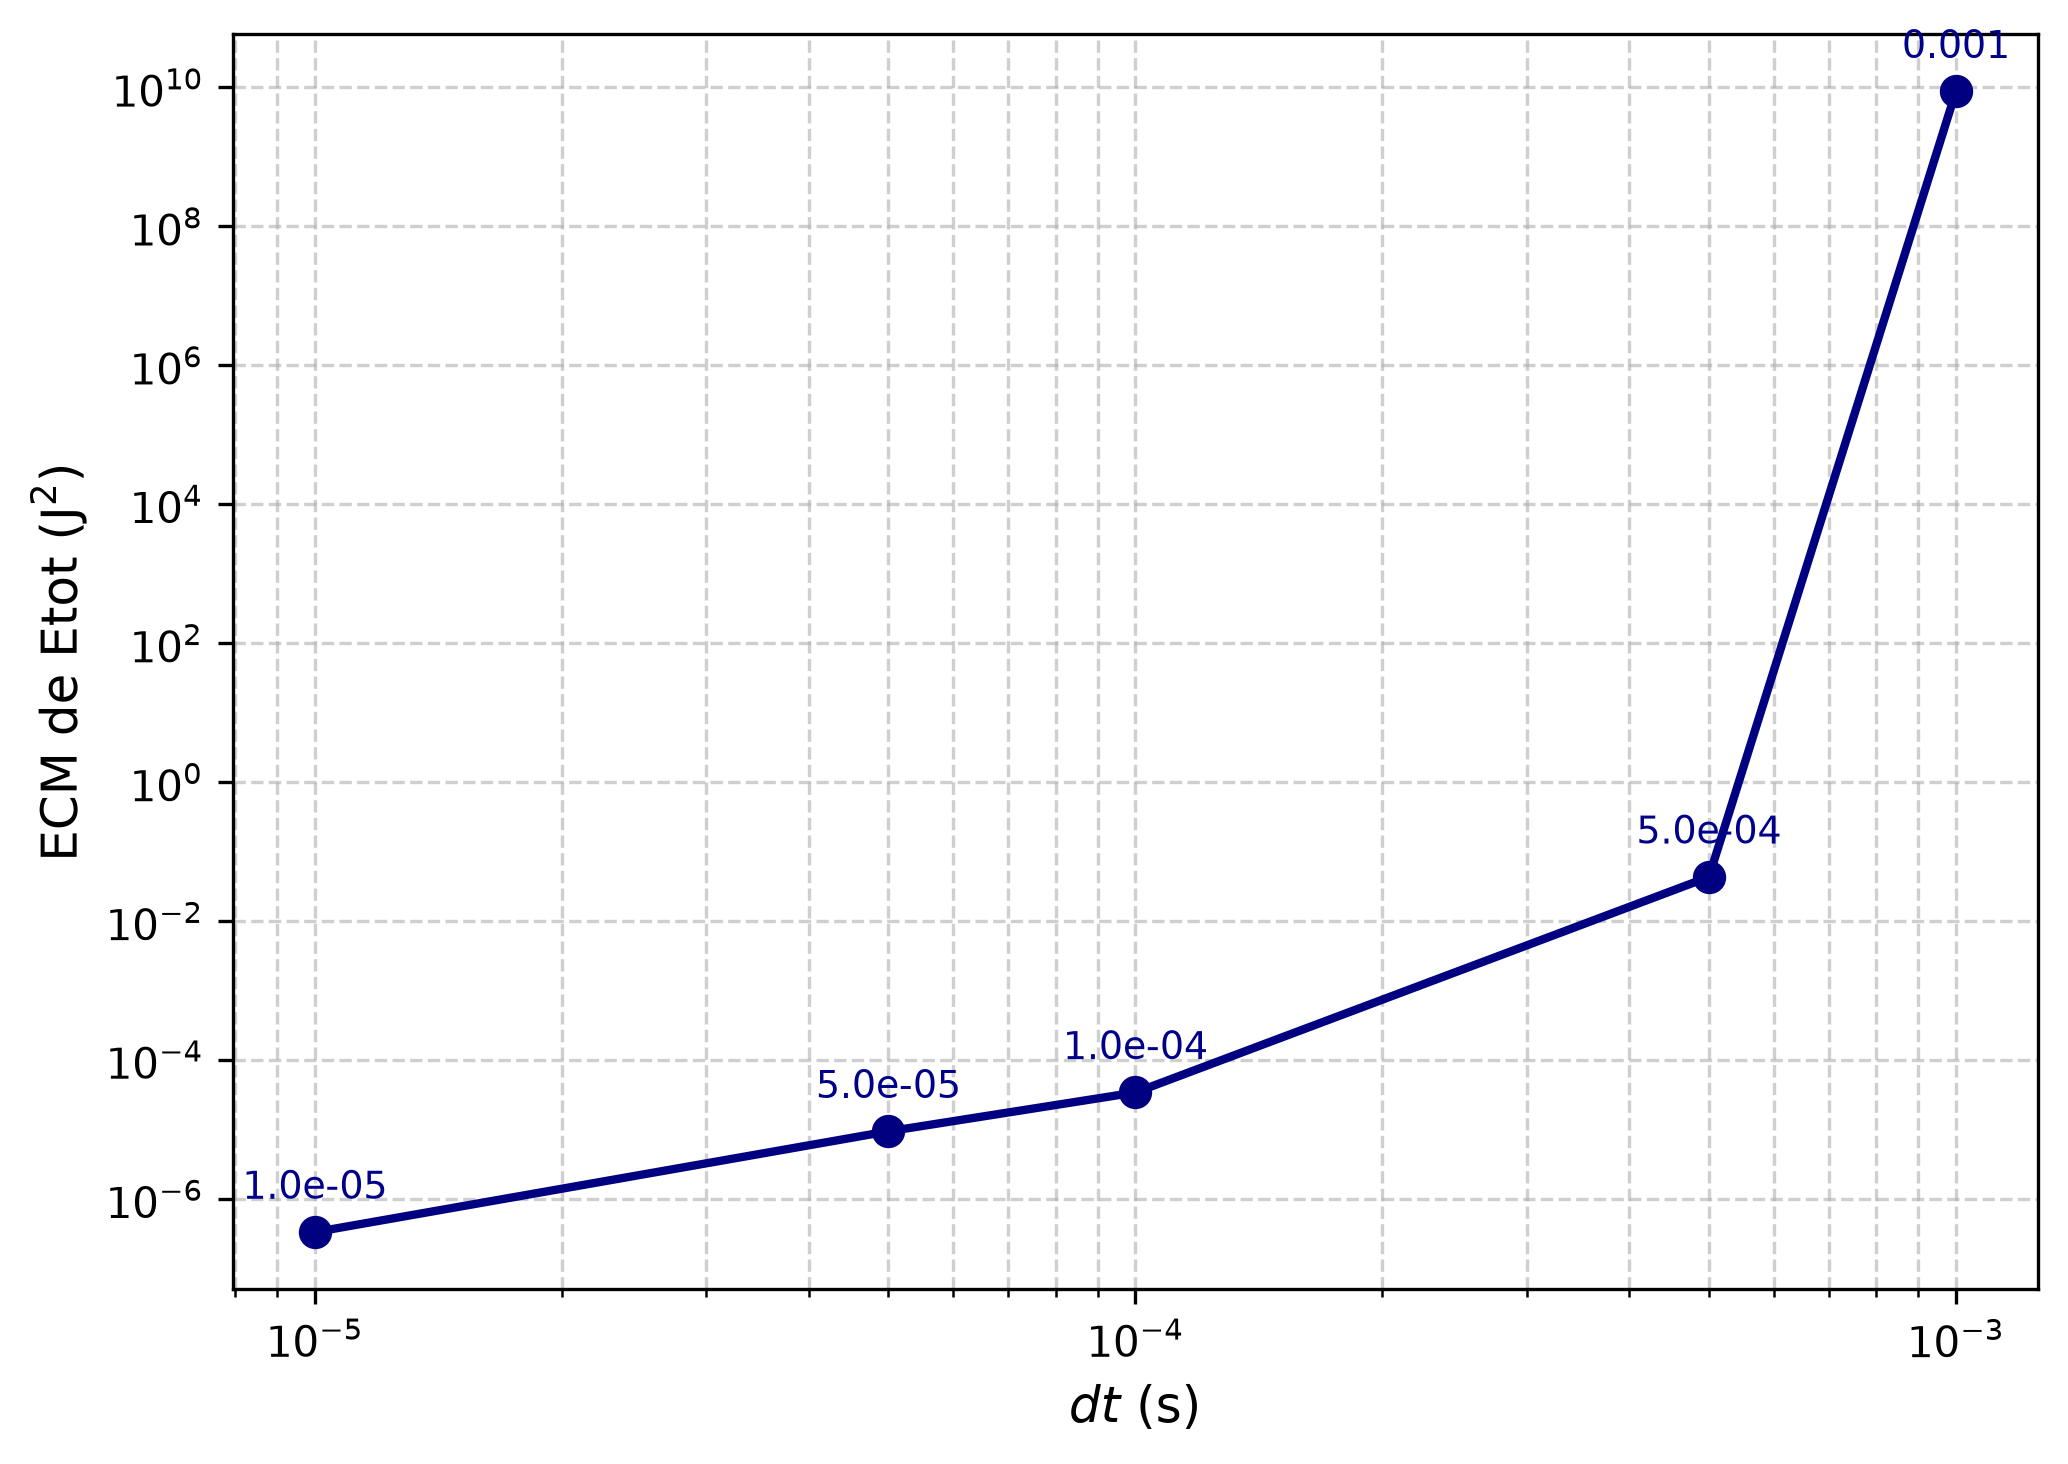
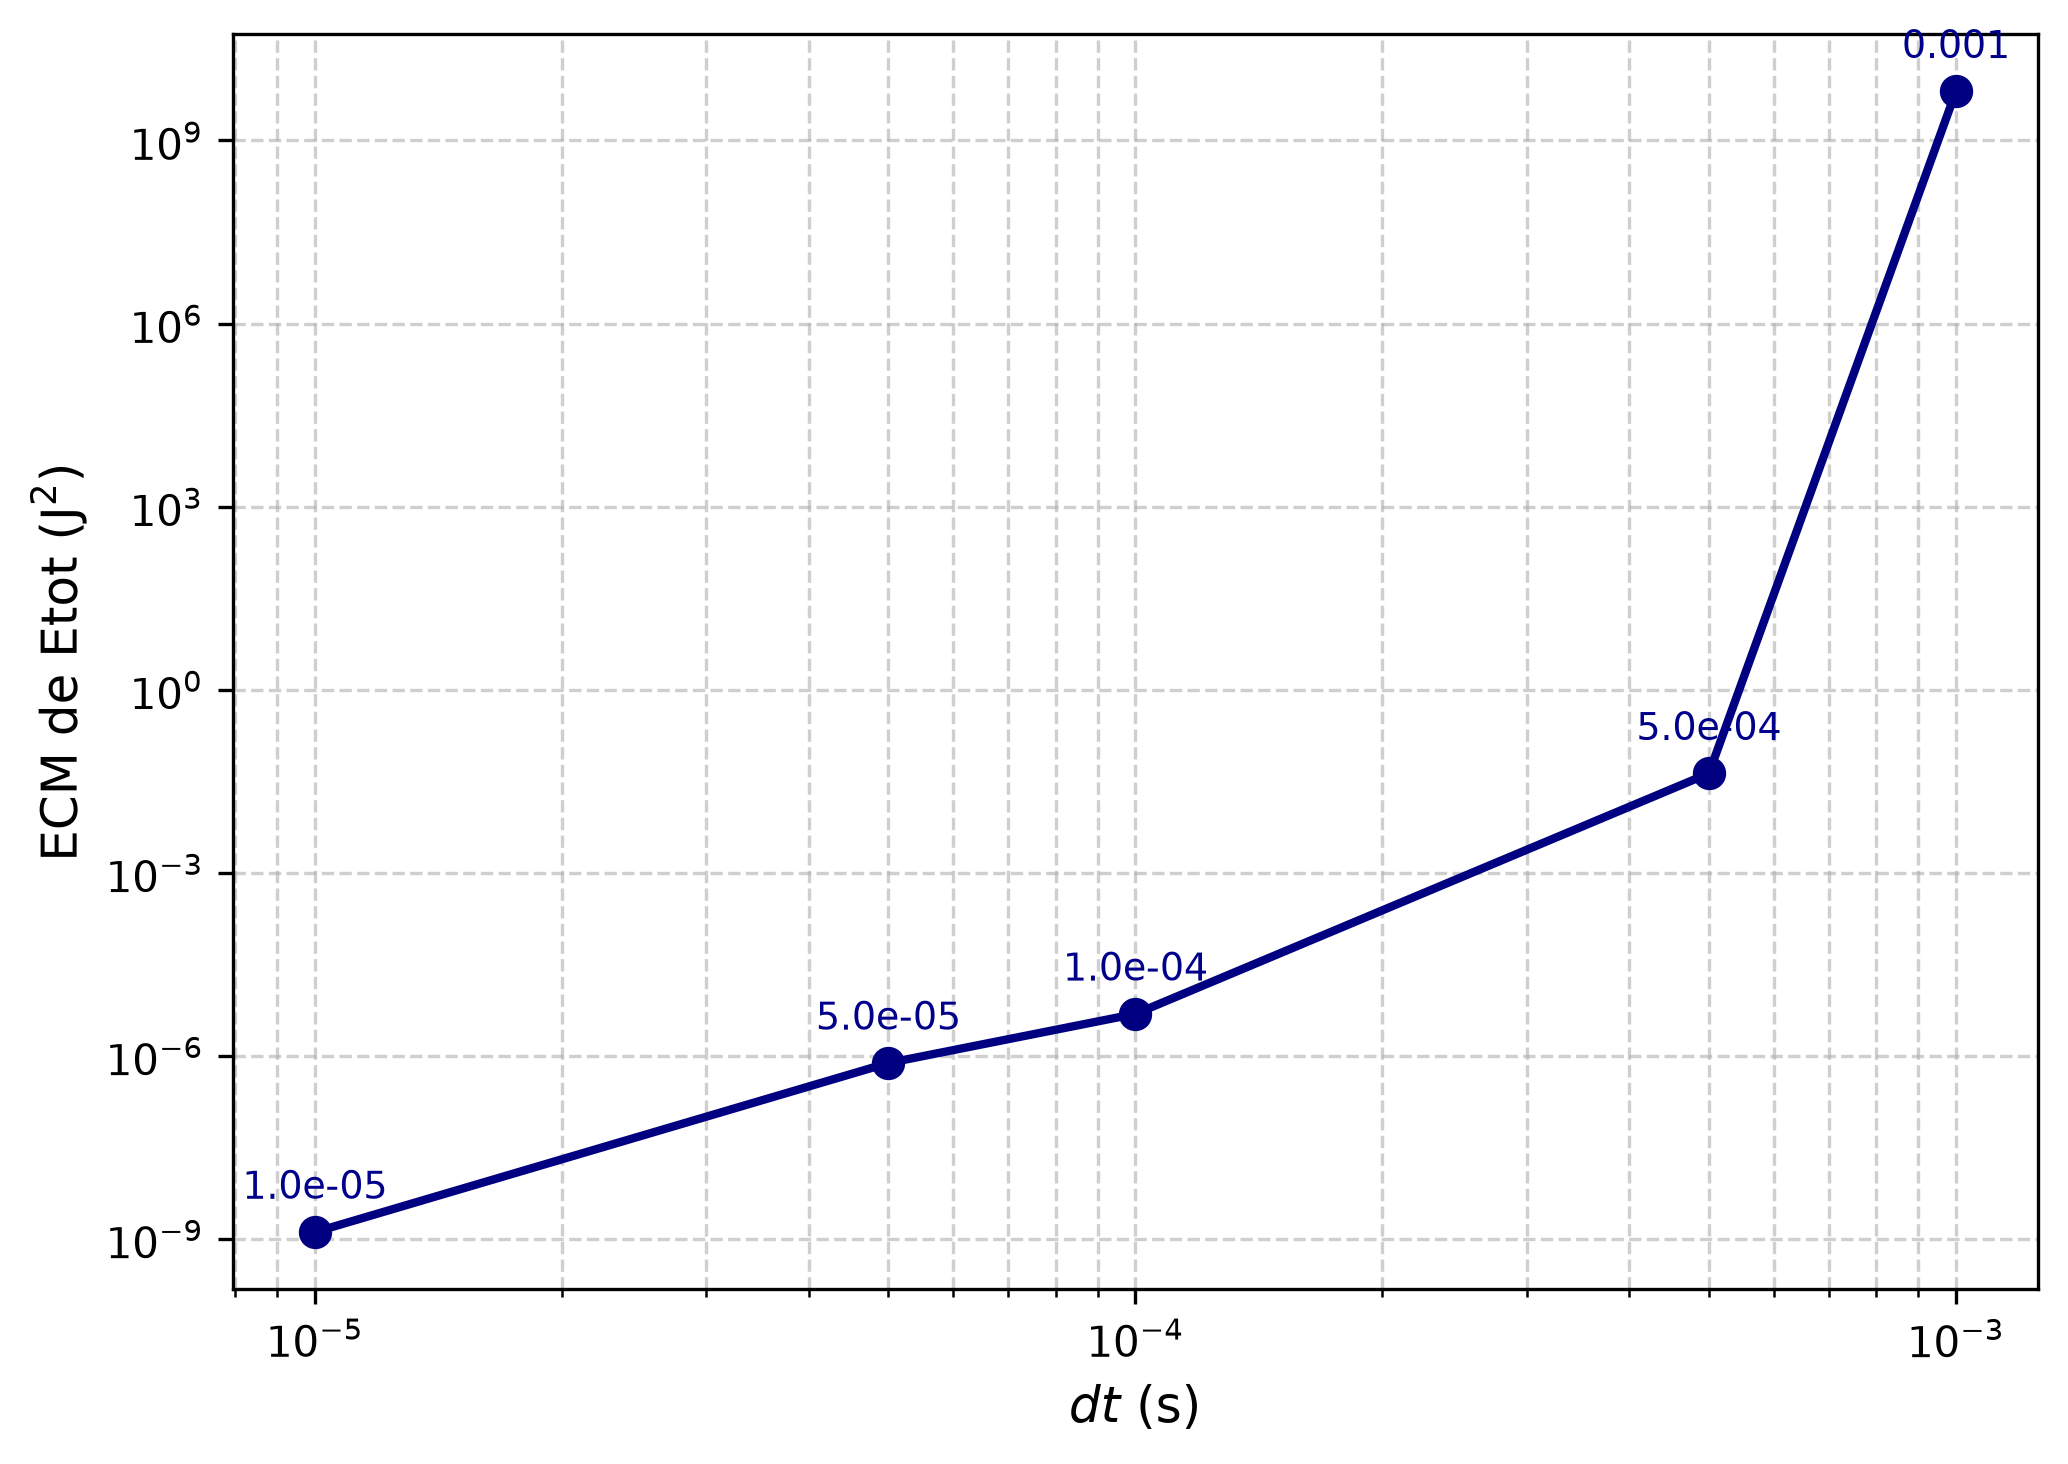
Some fixes + changed dt for 1b

diff --git a/python_scripts/energy_vs_dt.py b/python_scripts/energy_vs_dt.py
@@ -1,0 +1,202 @@
+"""
+TP4 - Ejercicio 2.1 a) Paso temporal y conservación de la energía.
+
+Sistema sin obstáculos, N = 300. Para cada dt (un archivo de output por dt):
+  - Energía total E(t) = sum 1/2 m v^2 + sum 1/2 k xi^2 (partículas + pared)
+  - Observable escalar: desvío relativo máximo de la energía
+        delta_E(dt) = max_t |E(t) - E(0)| / E(0)
+Se grafica E(t) para cada dt y delta_E en función de dt (ejes logarítmicos),
+y se informa el dt más grande que cumple delta_E < TOL_ENERGIA.
+
+Formato de cada archivo (frames consecutivos):
+    t
+    id x y vx vy estado      (N líneas)
+El dt se lee del nombre del archivo:  ..._dt<valor>.txt  (ej: 2.1.a_dt5.0E-4.txt)
+
+Ubicación esperada: <proyecto>/python_scripts/energia_vs_dt.py
+Los datos se leen con path relativo al script (no depende del pwd).
+"""
+import os
+import re
+import glob
+
+import numpy as np
+import matplotlib.pyplot as plt
+from matplotlib.ticker import Formatter, MaxNLocator
+
+# ==========================================
+# CONSTANTES DE CONFIGURACIÓN
+# ==========================================
+SUBDIRECTORIO_DATOS = "../2.1.a"
+OUTPUT_IMAGE_ENERGIA = "energia_vs_tiempo.png"
+OUTPUT_IMAGE_DESVIO = "desvio_energia_vs_dt.png"
+
+SCRIPT_DIR = os.path.dirname(os.path.abspath(__file__))
+DATA_DIR = os.path.abspath(os.path.join(SCRIPT_DIR, SUBDIRECTORIO_DATOS))
+
+FILE_RE = re.compile(r"_dt(.+)\.txt$")
+FONT_SIZE = 16
+TOL_ENERGIA = 1e-2            # criterio: desvío relativo máximo admitido
+OBSTACULOS_XO = None          # None = sin obstáculos (2.1.a); o xo en m para incluirlos
+
+# Parámetros físicos (enunciado)
+R_DOMAIN = 0.51               # m
+R_PART = 0.0175               # m
+M = 0.025                     # kg
+K = 1e4                       # N/m
+
+plt.rcParams.update({
+    "font.size": FONT_SIZE, "axes.labelsize": FONT_SIZE,
+    "xtick.labelsize": FONT_SIZE, "ytick.labelsize": FONT_SIZE,
+    "legend.fontsize": FONT_SIZE - 2, "figure.figsize": (9, 6.5),
+})
+
+
+# ----------------------------------------------------------------- lectura
+def load_frames(path):
+    """Devuelve (t[F], datos[F, N, 6]) con columnas id x y vx vy estado.
+    N se infiere del archivo (las líneas de tiempo no tienen espacios)."""
+    with open(path) as f:
+        lines = [ln.strip().replace(",", ".") for ln in f if ln.strip()]
+    is_time = [(" " not in ln) for ln in lines]
+    times = np.array([float(ln) for ln, tm in zip(lines, is_time) if tm])
+    rows = [ln.split() for ln, tm in zip(lines, is_time) if not tm]
+    data = np.array(rows, dtype=float).reshape(len(times), -1, 6)
+    return times, data
+
+
+# ----------------------------------------------------------------- energía
+def potential_energy(x, y, iu):
+    """Energía potencial elástica de contactos: partículas, pared (y obstáculos)."""
+    dx = x[iu[0]] - x[iu[1]]
+    dy = y[iu[0]] - y[iu[1]]
+    xi = np.clip(2 * R_PART - np.hypot(dx, dy), 0.0, None)
+    pe = 0.5 * K * np.sum(xi ** 2)
+    xi_w = np.clip(np.hypot(x, y) + R_PART - R_DOMAIN, 0.0, None)
+    pe += 0.5 * K * np.sum(xi_w ** 2)
+    if OBSTACULOS_XO is not None:
+        for ox in (-OBSTACULOS_XO, OBSTACULOS_XO):
+            xi_o = np.clip(2 * R_PART - np.hypot(x - ox, y), 0.0, None)
+            pe += 0.5 * K * np.sum(xi_o ** 2)
+    return pe
+
+
+def total_energy(data):
+    """E(t) para cada frame."""
+    n = data.shape[1]
+    iu = np.triu_indices(n, 1)
+    ke = 0.5 * M * np.sum(data[:, :, 3] ** 2 + data[:, :, 4] ** 2, axis=1)
+    pe = np.array([potential_energy(fr[:, 1], fr[:, 2], iu) for fr in data])
+    return ke + pe
+
+
+# ----------------------------------------------------------------- formato
+class SciFormatter(Formatter):
+    """Ticks en notación científica (m x 10^e) con los decimales mínimos
+    necesarios para que no haya ticks repetidos."""
+
+    def set_locs(self, locs):
+        locs = np.asarray(locs, dtype=float)
+        self._dec = 5
+        for d in range(0, 6):
+            if len({self._fmt(x, d) for x in locs}) == len(locs):
+                self._dec = d
+                break
+
+    @staticmethod
+    def _fmt(x, d):
+        if x == 0:
+            return "$0$"
+        e = int(np.floor(np.log10(abs(x))))
+        m = x / 10 ** e
+        if round(m, d) >= 10:
+            m, e = m / 10, e + 1
+        return rf"${m:.{d}f}\times10^{{{e}}}$"
+
+    def __call__(self, x, pos=None):
+        return self._fmt(x, getattr(self, "_dec", 1))
+
+
+def sci_text(x):
+    """Texto en notación científica para leyendas: 5 x 10^-4."""
+    e = int(np.floor(np.log10(abs(x))))
+    m = x / 10 ** e
+    return rf"{m:g}\times10^{{{e}}}"
+
+
+# ----------------------------------------------------------------- main
+def main():
+    files = [p for p in glob.glob(os.path.join(DATA_DIR, "*.txt")) if FILE_RE.search(p)]
+    if not files:
+        print(f"No se encontraron archivos *_dt<valor>.txt en '{DATA_DIR}'")
+        return
+
+    runs = {}   # dt -> (t, E)
+    for p in files:
+        dt = float(FILE_RE.search(p).group(1))
+        t, data = load_frames(p)
+        runs[dt] = (t, total_energy(data))
+        print(f"  leído {os.path.basename(p)}: dt={dt:g} s, N={data.shape[1]}, "
+              f"{len(t)} frames, t=[{t[0]:.2f}, {t[-1]:.2f}] s")
+
+    dts = np.array(sorted(runs))
+
+    # ---- observable: desvío relativo máximo y final
+    dev_max, dev_fin = [], []
+    print(f"\n  dt (s)      E0 (J)    max|dE|/E0   dE(t_f)/E0")
+    for dt in dts:
+        t, e = runs[dt]
+        rel = (e - e[0]) / e[0]
+        finite = np.all(np.isfinite(rel))
+        dm = np.max(np.abs(rel)) if finite else np.inf
+        dev_max.append(dm); dev_fin.append(rel[-1])
+        print(f"  {dt:<9g} {e[0]:9.4f}   {dm:10.3e}   {rel[-1]:+10.3e}"
+              f"{'' if finite else '   (valores no finitos: simulación inestable)'}")
+    dev_max = np.array(dev_max)
+
+    ok = dts[dev_max < TOL_ENERGIA]
+    if ok.size:
+        print(f"\ndt más grande con max|dE|/E0 < {TOL_ENERGIA:g}: {ok.max():g} s")
+    else:
+        print(f"\nNingún dt cumple max|dE|/E0 < {TOL_ENERGIA:g}")
+
+    # ---- figura 1: E(t) para cada dt
+    fig, ax = plt.subplots()
+    cmap = plt.get_cmap("viridis")
+    e0 = np.mean([runs[dt][1][0] for dt in dts])
+    for i, dt in enumerate(dts[::-1]):                 # de mayor a menor dt
+        t, e = runs[dt]
+        col = cmap(i / max(len(dts) - 1, 1) * 0.9)
+        ax.plot(t, e, color=col, lw=1.6, label=rf"$dt = {sci_text(dt)}$ s")
+    ax.set_xlabel("Tiempo (s)")
+    ax.set_ylabel("Energía total (J)")
+    ax.yaxis.set_major_locator(MaxNLocator(nbins=6))
+    ax.yaxis.set_major_formatter(SciFormatter())
+    # Límites y: se ignoran los puntos de simulaciones explotadas (fuera de [0.3, 3] E0)
+    vals = np.concatenate([e[np.isfinite(e) & (e > 0.3 * e0) & (e < 3 * e0)] for _, e in runs.values()])
+    pad = 0.05 * (vals.max() - vals.min() + 1e-12)
+    ax.set_ylim(vals.min() - pad, vals.max() + pad)
+    ax.grid(alpha=0.3)
+    ax.legend(loc="best")
+    fig.tight_layout()
+    fig.savefig(os.path.join(SCRIPT_DIR, OUTPUT_IMAGE_ENERGIA), dpi=200)
+
+    # ---- figura 2: observable vs dt (log-log)
+    fig, ax = plt.subplots()
+    fin = np.isfinite(dev_max) & (dev_max > 0)
+    ax.plot(dts[fin], dev_max[fin], "o-", color="#1f77b4", ms=9, lw=1.2, alpha=0.9)
+    ax.axhline(TOL_ENERGIA, color="#d62728", ls="--", lw=1.5,
+               label=rf"Tolerancia ${sci_text(TOL_ENERGIA)}$")
+    ax.set_xscale("log"); ax.set_yscale("log")
+    ax.set_xlabel("Paso temporal (s)")
+    ax.set_ylabel("Desvío relativo máximo de la energía")
+    ax.grid(True, which="both", alpha=0.3)
+    ax.legend(loc="best")
+    fig.tight_layout()
+    fig.savefig(os.path.join(SCRIPT_DIR, OUTPUT_IMAGE_DESVIO), dpi=200)
+
+    print(f"\nGráficos guardados en '{SCRIPT_DIR}'")
+
+
+if __name__ == "__main__":
+    main()

diff --git a/src/main/java/ar/edu/itba/sds/sims/ejercicio2/inciso1b.java b/src/main/java/ar/edu/itba/sds/sims/ejercicio2/inciso1b.java
@@ -14,7 +14,7 @@ public class inciso1b {
     public static void main(String[] args) throws IOException {
         List<Integer> ns = List.of(100,200,300,400,500,600);
 
-        double dt = 5e-4;
+        double dt = 1e-4;
         double tMax = 150;
         float obstacleDist = 0.0175f;
         List<Double> executionTimes = new ArrayList<>();

diff --git a/python_scripts/ECM(energy)_dt.py b/python_scripts/ECM(energy)_dt.py
@@ -11,7 +11,7 @@ K = 1e4
 DIAMETER = 2 * R_PART
 
 script_dir = os.path.dirname(os.path.abspath(__file__))
-DIRECTORY = os.path.abspath(os.path.join(script_dir,"2.1.a"))
+DIRECTORY = os.path.abspath(os.path.join(script_dir, "..", "2.1.a"))
 
 dts = []
 ecms = []
